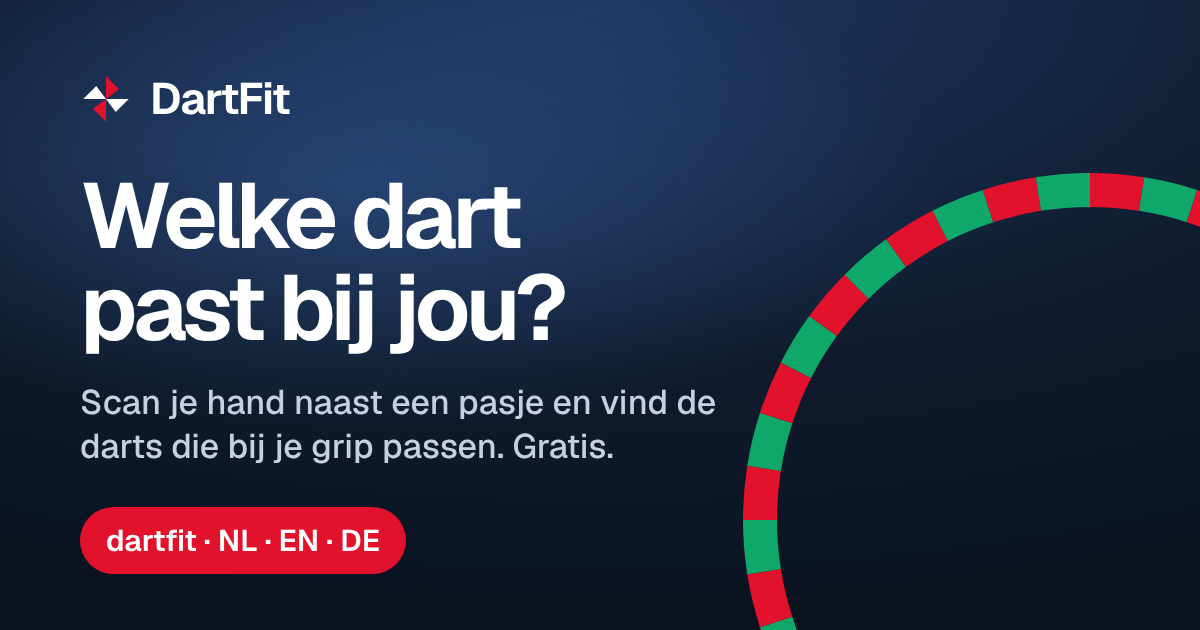
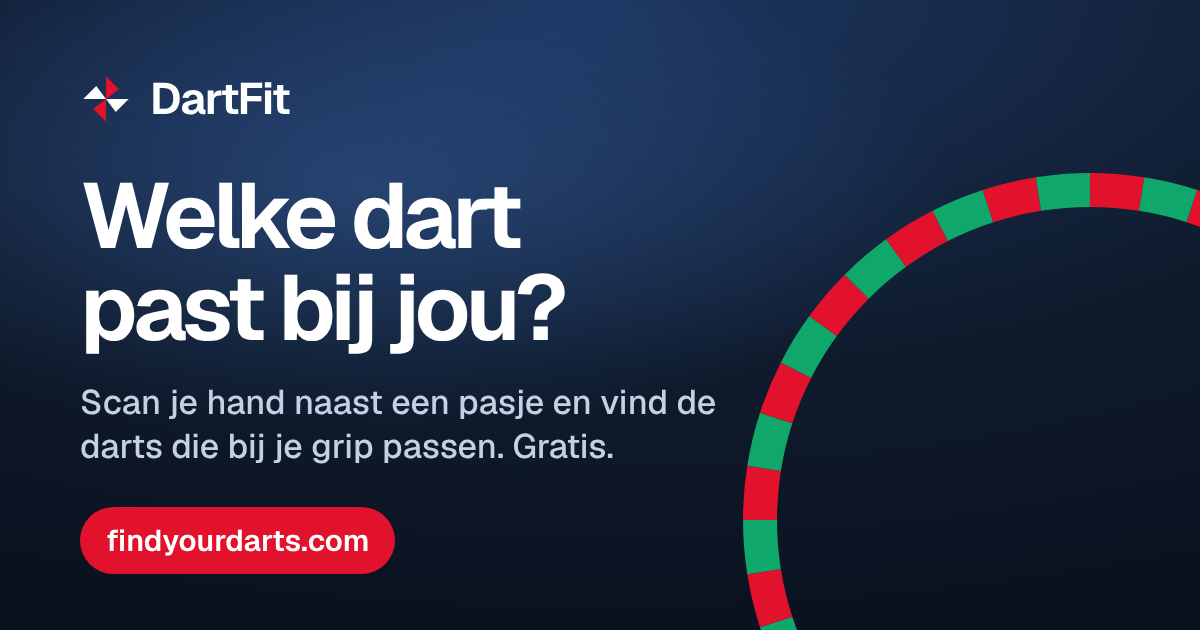
findyourdarts.com as the main address
Canonical, Open Graph, sitemap and guide links use findyourdarts.com; dartfit.vercel.app
redirects there (except /api, so cron and in-flight calls keep working). The social preview and
the share picture show the domain.

Claude-Session: https://claude.ai/code/session_016g4TZDGUtP515ofkdeanJJ

Changed region(s): [[0.0925, 0.7841, 0.3392, 0.9048]]

diff --git a/apps/web/index.html b/apps/web/index.html
@@ -7,18 +7,18 @@
     <meta name="theme-color" content="#15130f" media="(prefers-color-scheme: dark)" />
     <meta name="description" content="Welke dart past bij mij? Meet je hand naast een pasje en vind gratis de darts die bij je hand en grip passen. Je foto blijft op je telefoon." />
     <title>DartFit: welke dart past bij mij? Vind darts die bij je hand passen</title>
-    <link rel="canonical" href="https://dartfit.vercel.app/" />
-    <link rel="alternate" hreflang="x-default" href="https://dartfit.vercel.app/" />
+    <link rel="canonical" href="https://findyourdarts.com/" />
+    <link rel="alternate" hreflang="x-default" href="https://findyourdarts.com/" />
     <meta property="og:type" content="website" />
     <meta property="og:site_name" content="DartFit" />
     <meta property="og:title" content="DartFit: vind darts die bij je hand passen" />
     <meta property="og:description" content="Meet je hand naast een pasje, beantwoord vijf vragen en zie welke echte darts het best bij je passen. Gratis, in het Nederlands, Engels en Duits." />
-    <meta property="og:url" content="https://dartfit.vercel.app/" />
-    <meta property="og:image" content="https://dartfit.vercel.app/og.png" />
+    <meta property="og:url" content="https://findyourdarts.com/" />
+    <meta property="og:image" content="https://findyourdarts.com/og.png" />
     <meta property="og:image:width" content="1200" />
     <meta property="og:image:height" content="630" />
     <meta name="twitter:card" content="summary_large_image" />
-    <script type="application/ld+json">{"@context":"https://schema.org","@graph":[{"@type":"Organization","@id":"https://dartfit.vercel.app/#org","name":"DartFit","url":"https://dartfit.vercel.app/","logo":"https://dartfit.vercel.app/icons/icon-512.png"},{"@type":"WebApplication","@id":"https://dartfit.vercel.app/#app","name":"DartFit","url":"https://dartfit.vercel.app/","applicationCategory":"SportsApplication","operatingSystem":"Any (web browser)","inLanguage":["nl","en","de"],"description":"Free dart fitting: measure your hand next to a bank card, answer five questions and get the steel-tip darts that fit your hand and grip, in three price classes.","offers":{"@type":"Offer","price":"0","priceCurrency":"EUR"},"publisher":{"@id":"https://dartfit.vercel.app/#org"}}]}</script>
+    <script type="application/ld+json">{"@context":"https://schema.org","@graph":[{"@type":"Organization","@id":"https://findyourdarts.com/#org","name":"DartFit","url":"https://findyourdarts.com/","logo":"https://findyourdarts.com/icons/icon-512.png"},{"@type":"WebApplication","@id":"https://findyourdarts.com/#app","name":"DartFit","url":"https://findyourdarts.com/","applicationCategory":"SportsApplication","operatingSystem":"Any (web browser)","inLanguage":["nl","en","de"],"description":"Free dart fitting: measure your hand next to a bank card, answer five questions and get the steel-tip darts that fit your hand and grip, in three price classes.","offers":{"@type":"Offer","price":"0","priceCurrency":"EUR"},"publisher":{"@id":"https://findyourdarts.com/#org"}}]}</script>
     <link rel="manifest" href="./manifest.webmanifest" />
     <link rel="icon" href="./icons/icon.svg" type="image/svg+xml" />
     <link rel="apple-touch-icon" href="./icons/icon-192.png" />

diff --git a/apps/web/src/i18n.ts b/apps/web/src/i18n.ts
@@ -539,7 +539,7 @@ const nl = {
   'share.copied': 'Link gekopieerd.',
   'share.card.like': 'Ik gooi als',
   'share.card.mine': 'Mijn dart',
-  'share.card.cta': 'Welke dart past bij jou? Doe de test op DartFit',
+  'share.card.cta': 'Welke dart past bij jou? findyourdarts.com',
   'share.text.like': 'Ik gooi als {pro}: mijn dart past {pct}%. Welke prof ben jij?',
   'share.text.mine': 'Mijn dart is de {dart}: {pct}% match. Welke dart past bij jou?',
   'share.text.gift': 'Deze dart past bij mij: de {dart}.',
@@ -1140,7 +1140,7 @@ const en: Record<Key, string> = {
   'share.copied': 'Link copied.',
   'share.card.like': 'I throw like',
   'share.card.mine': 'My dart',
-  'share.card.cta': 'Which dart fits you? Scan your hand on DartFit',
+  'share.card.cta': 'Which dart fits you? findyourdarts.com',
   'share.text.like': 'I throw like {pro}: my dart fits {pct}%. Which pro are you?',
   'share.text.mine': 'My dart is the {dart}: {pct}% match. Which dart fits you?',
   'share.text.gift': 'This dart fits me: the {dart}.',

diff --git a/apps/web/vite.config.ts b/apps/web/vite.config.ts
@@ -113,7 +113,7 @@ function guides(): Plugin {
       const prosJson = readFileSync(join(data, 'pros.json'), 'utf8');
       const stats = statsFromCsv(csv, (JSON.parse(prosJson) as unknown[]).length);
       const cat = catalogueRows(csv, prosJson);
-      const base = (process.env.SITE_URL ?? 'https://dartfit.vercel.app').replace(/\/$/, '');
+      const base = (process.env.SITE_URL ?? 'https://findyourdarts.com').replace(/\/$/, '');
       for (const [fileName, source] of Object.entries(buildGuides(stats, base, cat)))
         this.emitFile({ type: 'asset', fileName, source });
       this.emitFile({ type: 'asset', fileName: 'guides/guides.css', source: GUIDES_CSS });

diff --git a/apps/web/src/i18n.de.ts b/apps/web/src/i18n.de.ts
@@ -391,7 +391,7 @@ export const de: Partial<Record<Key, string>> = {
   'share.copied': 'Link kopiert.',
   'share.card.like': 'Ich werfe wie',
   'share.card.mine': 'Mein Dart',
-  'share.card.cta': 'Welcher Dart passt zu dir? Scan deine Hand bei DartFit',
+  'share.card.cta': 'Welcher Dart passt zu dir? findyourdarts.com',
   'share.text.like': 'Ich werfe wie {pro}: mein Dart passt zu {pct}%. Welcher Profi bist du?',
   'share.text.mine': 'Mein Dart ist der {dart}: {pct}% Match. Welcher Dart passt zu dir?',
   'share.text.gift': 'Dieser Dart passt zu mir: der {dart}.',

diff --git a/CLAUDE.md b/CLAUDE.md
@@ -31,7 +31,7 @@ Mobile site: measure the throwing hand next to a bank card, fit darts to it, lin
 - Amazon: only stores with a tag are linked. amazon.nl (NL, BE), amazon.co.uk (GB, IE), amazon.de (DE and the rest of the EU, as it ships EU-wide), amazon.com (US); tags in `AMAZON_TAG_NL/UK/DE/US` on Vercel. amazon.fr/it/es/se/pl/com.be have no tag and no countries; add both together.
 - Buy buttons show Amazon only: `buyButtons: ["amazon"]` in `retailers.json` filters both the API offers and the browser bundle; the other affiliate shops stay configured (drop or extend the list to bring them back).
 - Country (shops) and language are separate; see `apps/web/src/region.ts`. The picker (`views/region-picker.ts`, a modal) opens on the first visit with the browser's guess pre-selected and from the globe in the header; search knows English and Dutch names too. German lives in `i18n.de.ts` and falls back to English.
-- SEO / AI search: guide pages are real HTML (not hash routes) built at `vite build` by `apps/web/seo` (content per language in `content.{nl,en,de}.ts`, rendered by `render.ts`): a hub, eleven guides (`content.*.ts`, `topics.ts`: barrel shapes, grip, tungsten; `events.ts`: darts calendar with sourced dates, WDF rules, and a checkout table generated by `src/draw/checkout.ts`) and a page per pro (`pros.ts` + `pro-pages.ts`, from pros.json and the catalogue, `/nl/profs/<name>/`, `/en/pros/…`, `/de/profis/…`) per language, plus `sitemap.xml`, `robots.txt` (AI crawlers allowed, `/api` and `/go` not) and `llms.txt`. Each page opens with a direct answer, uses question headings and a FAQ, and carries Article/FAQPage/Breadcrumb JSON-LD (a data block, fine under the CSP). Catalogue numbers in the text are `{placeholders}` filled from the live catalogue, so they can't go stale; `test/guides.test.ts` checks titles, descriptions, hreflang, CSP and phrases. Canonical host: `SITE_URL` (default dartfit.vercel.app). Keep claims honest (no study links hand size to the perfect weight); bump `UPDATED` when the guides change.
+- SEO / AI search: guide pages are real HTML (not hash routes) built at `vite build` by `apps/web/seo` (content per language in `content.{nl,en,de}.ts`, rendered by `render.ts`): a hub, eleven guides (`content.*.ts`, `topics.ts`: barrel shapes, grip, tungsten; `events.ts`: darts calendar with sourced dates, WDF rules, and a checkout table generated by `src/draw/checkout.ts`) and a page per pro (`pros.ts` + `pro-pages.ts`, from pros.json and the catalogue, `/nl/profs/<name>/`, `/en/pros/…`, `/de/profis/…`) per language, plus `sitemap.xml`, `robots.txt` (AI crawlers allowed, `/api` and `/go` not) and `llms.txt`. Each page opens with a direct answer, uses question headings and a FAQ, and carries Article/FAQPage/Breadcrumb JSON-LD (a data block, fine under the CSP). Catalogue numbers in the text are `{placeholders}` filled from the live catalogue, so they can't go stale; `test/guides.test.ts` checks titles, descriptions, hreflang, CSP and phrases. Canonical host: `SITE_URL` (default findyourdarts.com, the Strato domain pointed at Vercel; dartfit.vercel.app and www redirect there, except `/api`). Keep claims honest (no study links hand size to the perfect weight); bump `UPDATED` when the guides change.
 - Vercel Web Analytics (`@vercel/analytics`, cookieless): hash routes are sent as paths with ids replaced (`/fit/[id]`), guide pages load `/_vercel/insights/script.js`; Web Analytics must be enabled in the Vercel project. No two-week "which dart did you pick" opt-in any more (only an off switch for people who had it).
 - Copy lives in `apps/web/src/i18n.ts`, NL and EN side by side. Write plain Dutch; no "je/u" mixing (use je). Say "pasje" (het pasje), not "bankpas".
 
